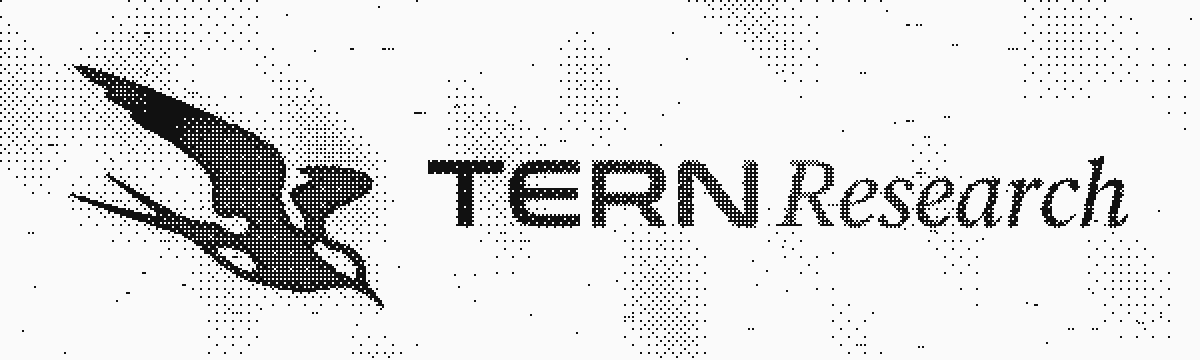
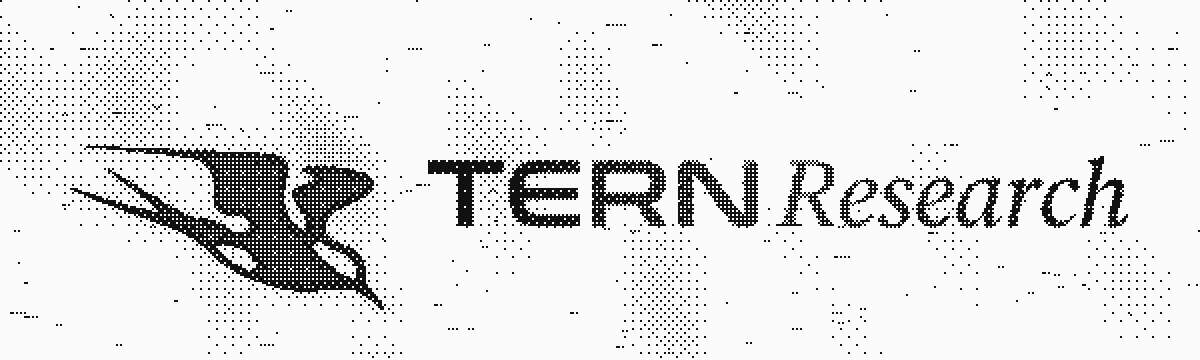
docs(brand): make the README hero tern fly with wingbeats

diff --git a/assets/brand/src/dither_hero.py b/assets/brand/src/dither_hero.py
@@ -24,7 +24,35 @@ TH = np.tile(B8, (GH//8+1, GW//8+1))[:GH, :GW]
 mark = Image.open(BR+"tern-mark.png").convert("L")
 MH = 126
 MW = int(mark.width*MH/mark.height)
-mark_hi = mark.resize((MW*4, MH*4), Image.LANCZOS)
+PAD = 22                   # grid px of room around the bird for wing travel
+S2 = 3                     # supersample for the wing warp
+mk = np.array(mark.resize((MW*S2, MH*S2), Image.LANCZOS))/255.0
+mk = np.pad(mk, PAD*S2)
+HH, WW = mk.shape
+gy, gx = np.mgrid[0:HH, 0:WW].astype(float)
+# mark-space coords (0..1400, 0..1112) of each supersampled pixel
+sc = mark.width/(MW*S2)
+ux = (gx - PAD*S2)*sc; uy = (gy - PAD*S2)*sc
+PIV = np.array([985.0, 468.0])          # shoulder
+# wing weight: above the line (160,430)-(985,468), fading out toward the head
+lx0, ly0, lx1, ly1 = 160.0, 430.0, 985.0, 468.0
+nx, ny = (ly1-ly0), -(lx1-lx0); nn = np.hypot(nx, ny); nx/=nn; ny/=nn
+if ny > 0: nx, ny = -nx, -ny             # normal points up
+above = (ux-lx0)*nx + (uy-ly0)*ny
+W_WING = np.clip(above/70.0, 0, 1)**1.2 * np.clip((1010-ux)/120.0, 0, 1)
+
+def warped_mark(theta_deg, sy):
+    th = np.radians(theta_deg)*W_WING
+    s = 1 - (1-sy)*W_WING
+    dx, dy = ux-PIV[0], uy-PIV[1]
+    # inverse: rotate back, then un-squash along y
+    c, sn = np.cos(-th), np.sin(-th)
+    rx = c*dx - sn*dy; ry = sn*dx + c*dy
+    ry = ry/np.maximum(s, 1e-3)
+    srcx = (rx+PIV[0])/sc + PAD*S2; srcy = (ry+PIV[1])/sc + PAD*S2
+    out = ndimage.map_coordinates(mk, [srcy, srcx], order=1, mode='constant')
+    im = Image.fromarray((out*255).astype(np.uint8)).resize((MW+2*PAD, MH+2*PAD), Image.BOX)
+    return np.array(im)/255.0
 
 # ---- wordmark from lockup alpha (text part only)
 lk = Image.open(BR+"tern-lockup-on-dark.png")
@@ -52,9 +80,9 @@ def pnoise(x, y, t, seed):
 rng = np.random.default_rng(7)
 NP = 140
 p0x = rng.uniform(0, GW, NP); p0y = rng.uniform(0, GH, NP)
-pv = rng.integers(1, 4, NP)          # laps per loop -> seamless
+pv = rng.integers(2, 6, NP)          # laps per loop -> seamless
 pb = rng.uniform(0.35, 1.0, NP)
-pl = rng.integers(1, 7, NP)          # streak length
+pl = rng.integers(2, 10, NP)          # streak length
 
 def frame(t, invert=False):
     # fog
@@ -74,28 +102,31 @@ def frame(t, invert=False):
                 xk = (xi+k) % GW
                 img[yi, xk] = max(img[yi, xk], pb[i]*(1-k/pl[i])*0.85)
 
-    # bird: bob + tiny tilt, periodic
-    bob = 4.0*np.sin(TAU*t)
-    ang = 1.6*np.sin(TAU*t + 0.6)
-    m = mark_hi.rotate(ang, resample=Image.BICUBIC, expand=False)
-    m = np.array(m.resize((MW, MH), Image.LANCZOS))/255.0
+    # bird in flight: 3 wingbeats per loop, body lifts on each downstroke
+    ph = TAU*3*t
+    u = np.sin(ph)
+    theta = -10 + 21*u                    # wing angle at the shoulder, degrees
+    sy = 0.80 + 0.20*(u+1)/2              # foreshortening on the downstroke
+    bob = 2.6*np.cos(ph) + 3.0*np.sin(TAU*t)
+    drift = 3.0*np.sin(TAU*t + 1.1)
+    m = warped_mark(theta, sy)
     inside = m > 0.5
     dist = ndimage.distance_transform_edt(inside)
     dist = np.clip(dist/6.0, 0, 1)
-    my, mx = np.mgrid[0:MH, 0:MW]
+    my, mx = np.mgrid[0:MH+2*PAD, 0:MW+2*PAD]
     # light sweep across the body
     sweep = np.exp(-(((mx+my*0.6) - (MW+MH)*((t*1.0) % 1.0)*1.3 + 30)/18.0)**2)
     shade = 0.74 + 0.22*(1-dist) + 0.30*sweep
     shade = np.where(inside, np.clip(shade, 0, 1), 0)
-    ox, oy = 34, int(round((GH-MH)/2 + bob))
-    sub = img[max(oy,0):oy+MH, ox:ox+MW]
-    sh = shade[max(-oy,0):max(-oy,0)+sub.shape[0], :sub.shape[1]]
-    ins = inside[max(-oy,0):max(-oy,0)+sub.shape[0], :sub.shape[1]]
+    ox, oy = 34-PAD+int(round(drift)), int(round((GH-MH)/2 - PAD + bob))
+    sub = img[max(oy,0):oy+MH+2*PAD, max(ox,0):ox+MW+2*PAD]
+    sh = shade[max(-oy,0):max(-oy,0)+sub.shape[0], max(-ox,0):max(-ox,0)+sub.shape[1]]
+    ins = inside[max(-oy,0):max(-oy,0)+sub.shape[0], max(-ox,0):max(-ox,0)+sub.shape[1]]
     sub[ins] = sh[ins]
     # soft halo just outside the silhouette
     halo = ndimage.distance_transform_edt(~inside)
     halo = np.exp(-halo/5.0)*0.14*(0.8+0.2*np.sin(TAU*t))
-    hs = halo[max(-oy,0):max(-oy,0)+sub.shape[0], :sub.shape[1]]
+    hs = halo[max(-oy,0):max(-oy,0)+sub.shape[0], max(-ox,0):max(-ox,0)+sub.shape[1]]
     sub[:] = np.maximum(sub, hs)
 
     # wordmark, static with a slow shimmer

diff --git a/assets/brand/README.md b/assets/brand/README.md
@@ -10,7 +10,7 @@ Reserved brand property. See the brand clause in [LICENSE](../../LICENSE). Do no
 | `tern-lockup-on-dark.png` | Dark lockup on a transparent background, trimmed | README header in dark mode |
 | `tern-lockup-on-light.png` | Light lockup on a transparent background, trimmed | README header in light mode |
 | `tern-app-icon.png` | App icon, 512 × 512 | Desktop app icon (planned) |
-| `tern-hero-dark.gif` | Animated dither hero: the mark floats and catches a light sweep, motes drift past, wordmark shimmers. 1200 × 360, 60 frames, 3 s seamless loop | README header in dark mode |
+| `tern-hero-dark.gif` | Animated dither hero: the tern flies (three wingbeats per loop, wing pivoting at the shoulder, body lifting on each downstroke), catches a light sweep, motes stream past, wordmark shimmers. 1200 × 360, 60 frames, 3 s seamless loop | README header in dark mode |
 | `tern-hero-light.gif` | Same hero, ink on paper | README header in light mode |
 | `tern-hero-still-dark.png` / `-light.png` | One still frame of the hero | Social preview, reduced-motion fallback |
 | `src/dither_hero.py` | Generator for the hero files (8 × 8 Bayer ordered dither over a shaded scene; needs numpy, pillow, scipy) | Re-render after any mark or wordmark change |
